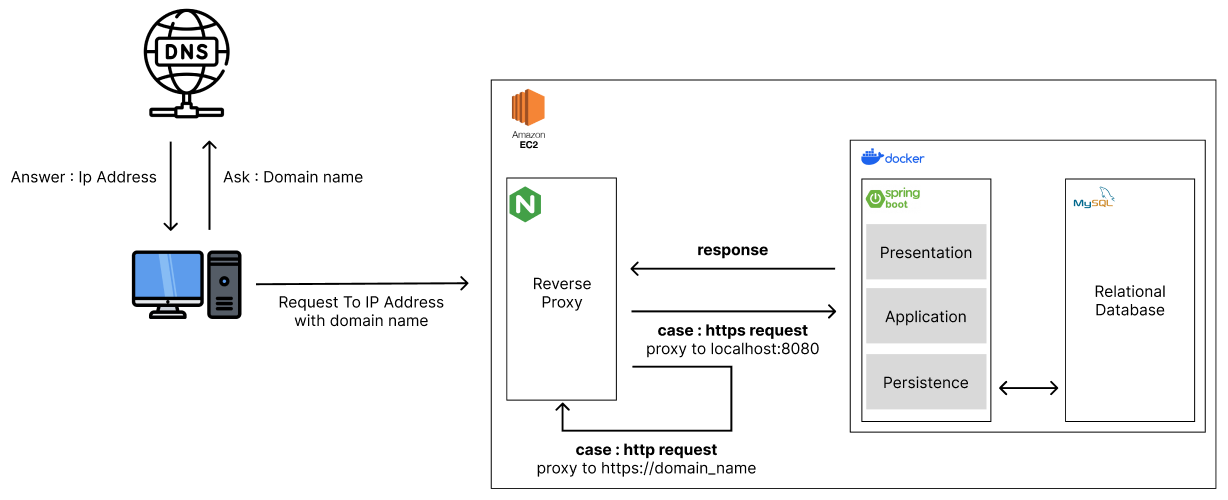
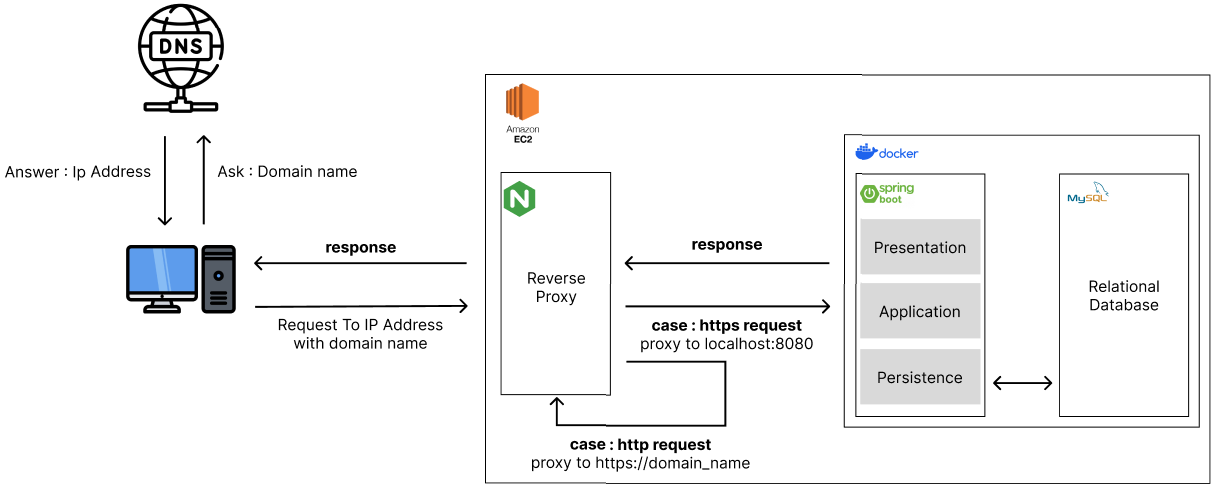
docs : 다이어그램 수정

diff --git a/README.md b/README.md
@@ -57,7 +57,7 @@
 
 **Architecture**
 
-![arch.png](image/arch.png)
+![img.png](image/arch.png)
 
 **Git Flow**
 
